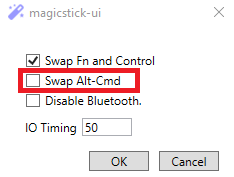
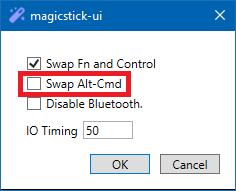
-

diff --git a/README.md b/README.md
@@ -13,31 +13,27 @@ All modern versions of Windows (since Windows 95 OSR2) and Linux are supported. 
 
 <table>
     <tr>
-        <td><a href="docs/front.png"><img src="docs/front.png" width="100" alt="Keyboard Port"/></a></td>
-        <td><a href="docs/side.png"><img src="docs/side.png" width="100" alt="Side View"/></a></td>
+        <td><a href="docs/side-white.png"><img src="docs/side-white.png" width="100" alt="White"/></a></td>
+        <td><a href="docs/white-open.png"><img src="docs/white-open.png" width="100" alt="White"/></a></td>
         <td><a href="docs/wired.png"><img src="docs/wired.png" width="100" alt="On Wired Connection"/></a></td>
         <td><a href="docs/wireless.png"><img src="docs/wireless.png" width="100" alt="On Wireless BT Connection"></a></td>
-        <td><a href="docs/open-1.png"><img src="docs/open-1.png" width="100" alt="Inside"/></a></td>
     </tr>
     <tr>
-        <td>Keyboard</br>USB port</td>
         <td>Side view</td>
-        <td>Wired</br>connection</td>
-        <td>Wireless</br>connection</td>
-        <td>Inside view</td>
+        <td>(In)side view <br/>for the curious:)</td>
+        <td>Wired</br>connection<br/>(Purple Version)</td>
+        <td>Wireless</br>connection<br/>(Purple Version)</td>
     </tr>
     <tr>
-        <td><a href="docs/open-2.png"><img src="docs/open-2.png" width="100" alt="Inside"/></a></td>
         <td><a href="docs/20230927213111.png"><img src="docs/20230927213111.png" width="100" alt="MagicStickUI Settings"/></a></td>
-        <td><a href="docs/20230927210205.png"><img src="docs/20230927210205.png" width="100" alt="MagicStickUI Battery Indicator"/></a></td>
+        <td><a href="docs/Untitled-1.png"><img src="docs/Untitled-1.png" width="100" alt="MagicStickUI Battery Indicator"/></a></td>
         <td><a href="docs/20230927211852.png"><img src="docs/20230927211852.png" width="100" alt="MagicStickUI Firmware Update"/></a></td>
         <td></td>
     </tr>
     <tr>
-        <td>Inside view</td>
-        <td>MagicStickUI</br>Settings</td>
-        <td>MagicStickUI</br>Battery Indicator</td>
-        <td>MagicStickUI</br>Firmware update</td>
+        <td>magicstick-ui utility</br>Settings</td>
+        <td>magicstick-ui utility</br>Battery Indicator</td>
+        <td>magicstick-ui utility</br>Firmware update</td>
         <td></td>
     </tr>
 </table>
